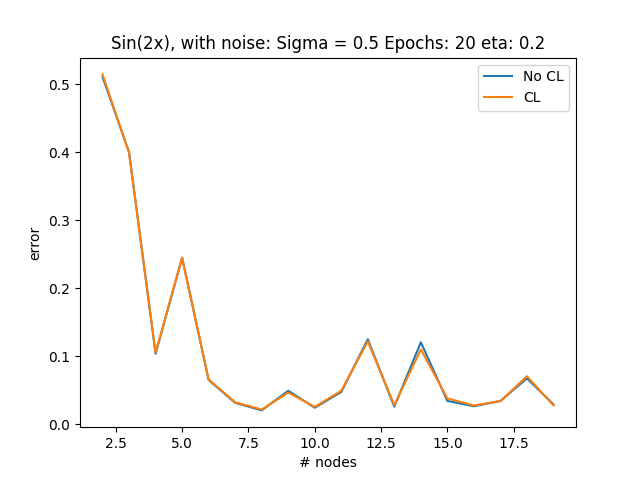
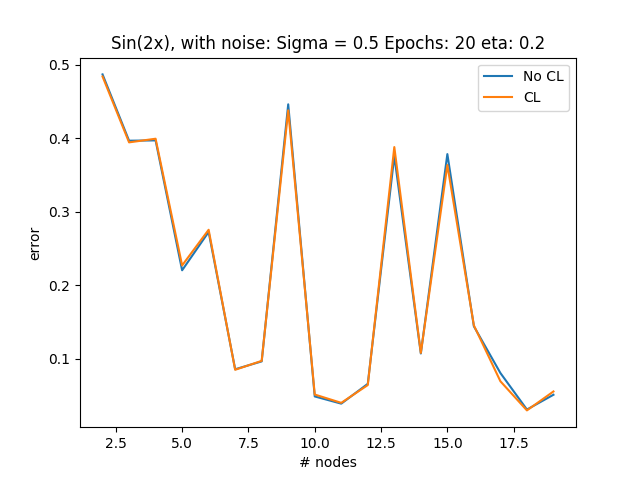
cl_plots

diff --git a/g_rbf.py b/g_rbf.py
@@ -72,7 +72,7 @@ def seq_learn(x, label, phi_x, t, eta):
 
 def dist_(x, W, r=.5):
     temp = np.subtract.outer(x,W)
-    d = np.multiply(temp,temp).squeeze()
+    d = temp**2
     in_radius = np.abs(d-np.min(d)).T<r
     return d, in_radius
 
@@ -83,7 +83,7 @@ def clearning(x,mu_cl,t=50,eta=0.2):
         mu_cl += eta*np.multiply(in_radius,x_samp-mu_cl)
     return mu_cl
 
-def winner(x,mu,fac=5):
+def winner(x,mu,fac=10):
     winners = np.argmin(dist_(x,mu)[0],1)
     wins = np.zeros(mu.shape)
     for w in winners:
@@ -93,7 +93,7 @@ def winner(x,mu,fac=5):
 
     return wins
 
-def batch_plots(sigma2=0.1):
+def batch_plots(sigma2=.05):
     x, valid, label, valid_label = generateData(fun=0, noise=1)
 
     no_of_nodes = np.arange(1,21,1)
@@ -124,8 +124,8 @@ def batch_plots(sigma2=0.1):
     plt.xlabel('# nodes')
     plt.ylabel('error')
     """
-
-    fig.savefig('report/plots/noise/noise_batch_sin2x_best')
+    plt.title('Batch: Sin(2x), with noise: Sigma = ' + str(sigma2) + " Nodes: " + str(i))
+    fig.savefig('report/plots/noise/noise_batch_sin2x_sharp')
 
     plt.show()
 
@@ -167,49 +167,54 @@ def seq_plots(sigma2=0.5):
 
     plt.show()
 
-def CL_plots(sigma2=0.5):
+def CL_plots(sigma2=0.2):
     x, valid, label, valid_label = generateData(0, noise=1)
-    t = 20#number of epochs
+    epochs = 50#number of epochs
     eta = 0.2 #step size, learning rate
 
-    no_of_nodes = np.arange(2,20,1)
+    no_of_nodes = np.arange(2,15,1)
     tot_errors_cl = []
     tot_errors = []
 
     for i in no_of_nodes:
         mu = np.linspace(0,2*np.pi,i)
-        mu_cl = clearning(x,mu)
+        mu_copy = np.copy(mu)
+        mu_cl = clearning(x, mu_copy, t=50)
         phi_x_cl = phi(x,mu_cl,sigma2).T
-        f_hat_cl, W, error_cl = seq_learn(x, label, phi_x_cl, t, eta)
+        #f_hat_cl, W, error_cl = seq_learn(x, label, phi_x_cl, epochs, eta)
+        f_hat_cl, W, error_cl = batch_train(x, label, phi_x_cl, sigma2)
 
         phi_x = phi(x,mu,sigma2).T
-        f_hat, W, error = seq_learn(x, label, phi_x, t, eta)
+        #f_hat, W, error = seq_learn(x, label, phi_x, epochs, eta)
+        f_hat, W, error = batch_train(x, label, phi_x, sigma2)
         tot_errors_cl.append(np.mean(error_cl))
         tot_errors.append(np.mean(error))
-
 
     winners_cl = winner(x,mu_cl)
 
     fig = plt.figure()
     """
-    tru, = plt.plot(x,f_hat, c="b", label="Estimated")
-    est, = plt.plot(x,label, '--r', label="True")
+    tru, = plt.plot(x, f_hat_cl, c="b", label="Estimated")
+    est, = plt.plot(x, label, '--r', label="True")
 
-    nodes = plt.scatter(mu, np.zeros(mu.shape), label="Nodes",s=winners_cl)
+    nodes = plt.scatter(mu_cl, np.zeros(mu.shape), label="Nodes", s=winners_cl)
+    plt.scatter(mu, np.zeros(mu.shape))
     plt.legend(handles=[est, tru, nodes])
     plt.xlabel('x')
     plt.ylabel('f(x)')
 
-    plt.title('Best sin(2x), with noise: Sigma = ' + str(sigma2) + ' Epochs: ' + str(t) + ' eta: ' + str(eta) + ' Nodes: ' + str(i))
+    plt.title('Sin(2x) seq, Sigma = ' + str(sigma2) + ' Epochs: ' + str(epochs) + ' eta: ' + str(eta) + ' Nodes: ' + str(i))
+
+
     """
-    plt.title('Sin(2x), with noise: Sigma = ' + str(sigma2) + ' Epochs: ' + str(t) + ' eta: ' + str(eta))
-    CL, = plt.plot(no_of_nodes, tot_errors, label="No CL")
-    NoCL, = plt.plot(no_of_nodes, tot_errors_cl, label="CL")
+    plt.title('Sin(2x) batch, with noise: Sigma = ' + str(sigma2) + ' Number of nodes: ' + str(i))
+    CL, = plt.plot(no_of_nodes, tot_errors_cl, label="CL")
+    NoCL, = plt.plot(no_of_nodes, tot_errors, label="No CL")
     plt.xlabel('# nodes')
     plt.ylabel('error')
     plt.legend(handles=[CL, NoCL])
 
-    fig.savefig('report/plots/cl/sin2x_seq'+str(t)+'ep')
+    fig.savefig('report/plots/cl/sin2x_batch_error_cl_vs_no_cl')
 
     plt.show()
 
